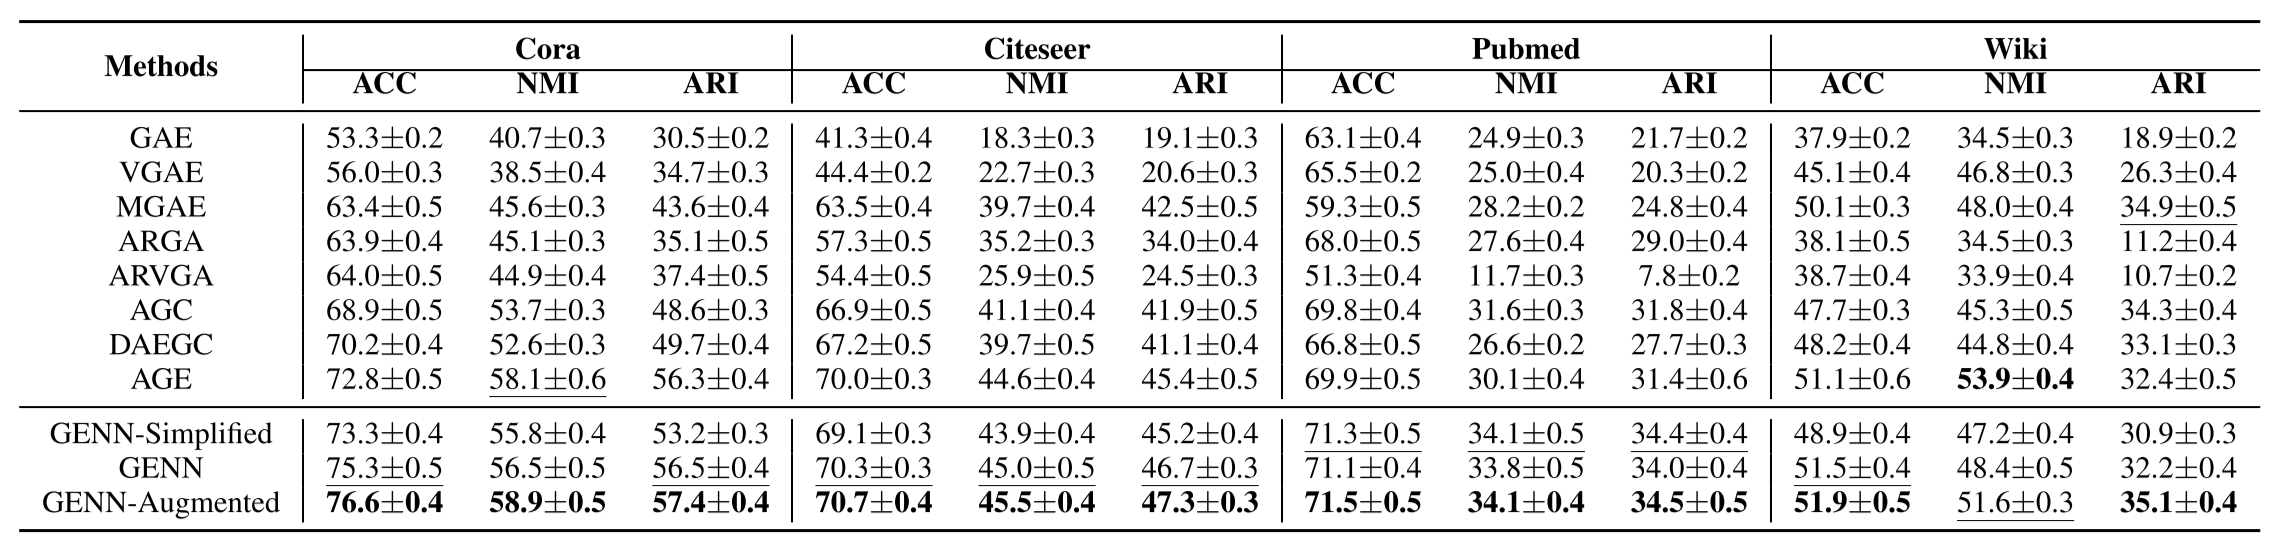
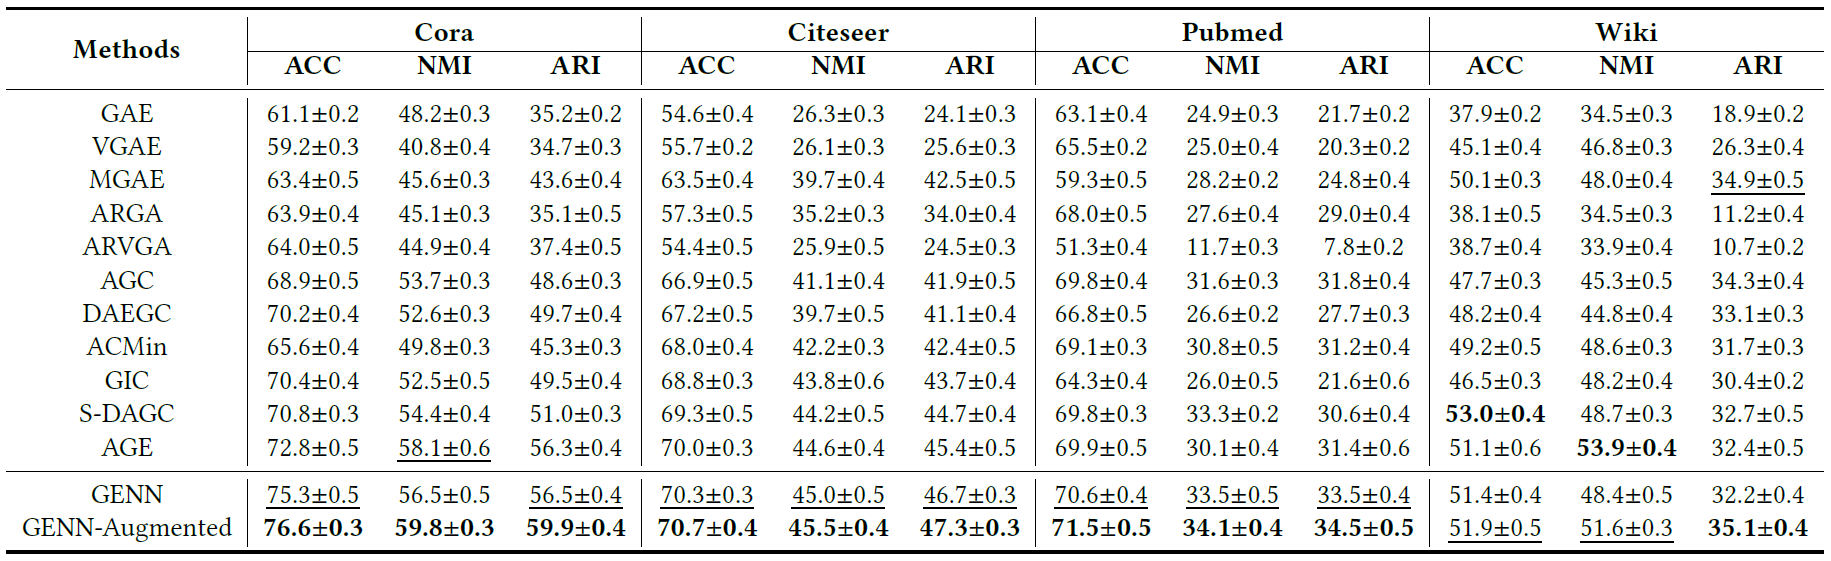
Update code

Changed region(s): [[0.0, 0.0, 0.9962, 0.9927]]

diff --git a/train.py b/train.py
@@ -1,12 +1,17 @@
 from __future__ import print_function, division
+import random
 from sklearn.cluster import KMeans
 import torch
 import torch.nn.functional as F
 from torch.optim import Adam
+from networkx.algorithms.shortest_paths.unweighted import all_pairs_shortest_path_length
 from utils import *
 from model import *
 from deepwalk import *
 import argparse
+
+import matplotlib.pyplot as plt
+import numpy as np
 
 
 set_seed(42)
@@ -15,11 +20,11 @@ parser = argparse.ArgumentParser()
 parser.add_argument('--epochs', type=int, default=200, help='Number of epochs to train.')
 parser.add_argument('--lr', type=float, default=1e-3, help='Initial learning rate.')
 parser.add_argument('--weight_decay', type=float, default=5e-6, help='the value of weight decay.')
+parser.add_argument('--k', type=int, default=5, help='the depth of high-order structural information')
 parser.add_argument('--embedDim', type=int, default=64, help='Dim of embedding.')
 parser.add_argument('--hiddenDim', type=int, default=256, help='Dim of hidden layer.')
 parser.add_argument('--dataset', type=str, default='cora', help='type of dataset.')
-parser.add_argument('--augmented', action='store_true', help='use deepwalk or not.')
-parser.add_argument('--simplified', action='store_true', help='disentangled or not.')
+parser.add_argument('--augmented', type=bool, default=True, help='use deepwalk or not.')
 parser.add_argument('--device', type=int, default=0, help='train on which gpu.')
 args = parser.parse_args()
 
@@ -29,17 +34,14 @@ if args.dataset == 'wiki':
 else:
     adj, data, _, _, _, _, y, graph = load_data(args.dataset)
 
-n_input = data.shape[1]
+n_node, n_input = data.shape[0], data.shape[1]
 n_clusters = (y.max() + 1).item()
 
 if args.augmented:
     window_size, walk_len, n_walks = 5, 10, 10
     embed_dw = deepwalk_train(graph, window_size, walk_len, n_walks, args.embedDim).to(device)
 
-if args.simplified:
-    model = DNN(args.hiddenDim, n_input=n_input*3, n_z=args.embedDim).to(device)
-else:
-    model = GENN(args.hiddenDim, n_input=n_input, n_z=args.embedDim).to(device)
+model = GENN(args.hiddenDim, n_input=n_input, n_z=args.embedDim).to(device)
 data = data.to(device)
 optimizer = Adam(model.parameters(), lr=args.lr, weight_decay=args.weight_decay)
 
@@ -49,31 +51,34 @@ adj = normalize(adj)
 adj_1 = adj.to_dense()
 adj = adj.to(device)
 
-adj_2 = torch.mm(adj_1, adj_1)
-adj_3 = torch.mm(adj_2, adj_1)
-adj_4 = torch.mm(adj_3, adj_1)
-
-if args.simplified:
-    input_feature = torch.cat((data, torch.mm(adj, data), torch.mm(adj_2.to(device), data)), dim=1).to(device)
-
-kmeans = KMeans(n_clusters=n_clusters, n_init=20)
+kmeans = KMeans(n_clusters=n_clusters, n_init=20, random_state=0)
 
 feature_matrix = exp_matrix(data)
 if args.augmented:
     topology_s = embedding2similarity(embed_dw)
 else:
-    topology_s = adj_4.to(device)
+    adj_list = [adj_1]
+    for _ in range(args.k-1):
+        adj_list.append(torch.mm(adj_list[-1], adj_1))
+    adj_aggr = adj_1
+    for i in range(1, args.k):
+        adj_aggr += (1/(i+1)) * adj_list[i]
+    topology_s = adj_aggr.to(device)
 
 gcn_sc = None
+best_acc = 0.
+best_emb = None
+best_epoch = 0
 sim_loss_list = []
-for epoch in range(args.epochs + 1):
-    if args.simplified:
-        embed = model(input_feature)
-    else:
-        embed = model(data, adj)
+for epoch in range(args.epochs+1):
+    embed = model(data, adj)
     if epoch % 5 == 0:
         y_pred = kmeans.fit_predict(embed.data.cpu().numpy())
-        eva(y, y_pred, str(epoch))
+        acc_cur = eva(y, y_pred, str(epoch))
+        if best_acc < acc_cur:
+            best_acc = acc_cur
+            best_emb = embed
+            best_epoch = epoch + 1
         if epoch % 10 == 0:
             centroids = torch.tensor(kmeans.cluster_centers_).to(device)
     maxdist = 0.
@@ -89,8 +94,7 @@ for epoch in range(args.epochs + 1):
     fs_loss = F.kl_div(t_matrix(embed).log(), feature_matrix, reduction='batchmean')
     ts_loss = F.mse_loss(gcn_sc, topology_s)
 
-    loss = 1 * fs_loss + 0.01 * ts_loss + 0.01 * (min_dist_loss + 0.1 * max_dist_loss)
-    print(loss.item())
+    loss = 1.0 * fs_loss + 0.01 * ts_loss + 0.01 * (min_dist_loss + 0.1 * max_dist_loss)
 
     optimizer.zero_grad()
     loss.backward()

diff --git a/deepwalk.py b/deepwalk.py
@@ -1,5 +1,6 @@
 from __future__ import print_function, division
 import random
+import numpy as np
 import torch
 from gensim.models import Word2Vec
 
@@ -76,6 +77,6 @@ def deepwalk_train(G, window_size, walk_len, n_walks, n_z):
     embed = []
     for word in G.nodes():
         embed.append(dict[str(word)])
-    embed = torch.Tensor(embed)
+    embed = torch.Tensor(np.array(embed))
 
     return embed

diff --git a/README.md b/README.md
@@ -5,35 +5,31 @@ This repository contains the official implementation of GENN.
 
 ## Requirements
 
-To install requirements:
+To install the requirements:
 
 ```setup
 pip install -r requirements.txt
 ```
 
 
-## Training
+## Running
 
-To train GENN-Augmented:
-
-```
-python train.py --augmented
-```
-
-To train GENN:
+To run GENN-Augmented:
 
 ```
 python train.py
+```
+
+To run GENN:
+
+```
+python train.py --augmented False
 ```
 
 
 
 ## Results
 
-  Evaluation results on the clustering task:
+  Evaluation results on the attributed graph clustering task:
 
 <img src="./cluster_performance.png" style="zoom:80%;" />
-
-Evaluation results on the link prediction task:
-
-<img src="./link_performance.png" style="zoom:80%;" />
